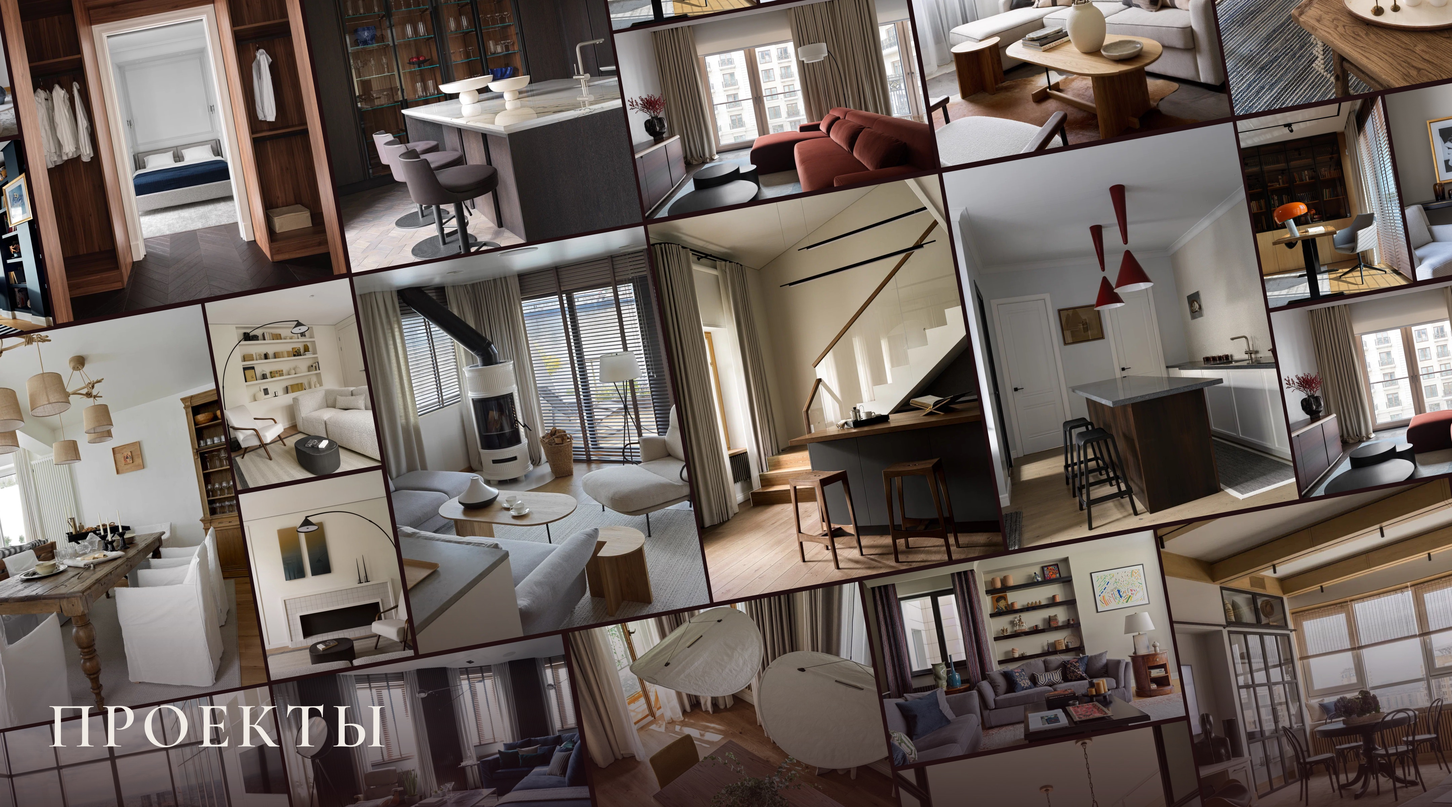
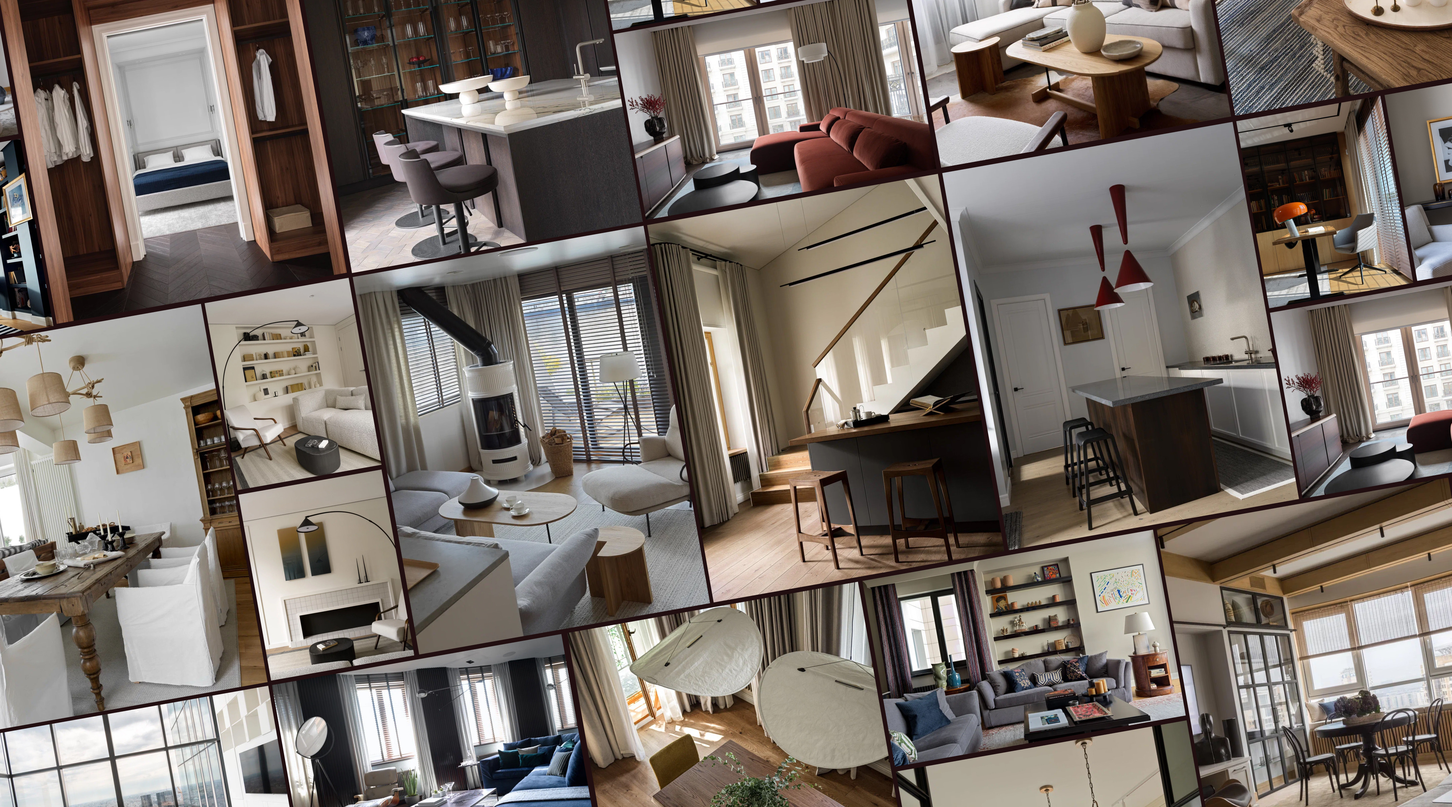
Restore missing Figma photos and project galleries now that Pro access works.
The first pass hit the free-plan export limit, so several heroes and the Moskva and Kotelniki galleries were incomplete or had titles baked into the JPEGs.

Changed region(s): [[0.0, 0.7188, 1.0, 1.0]]

diff --git a/projects/moskva.html b/projects/moskva.html
@@ -26,10 +26,10 @@
   </header>
 
   <section class="hero" data-hero>
-    <img src="../assets/projects/moskva.jpg" alt="Апартаменты в башне Москва" />
+    <img src="../assets/moskva/hero.jpg" alt="Апартаменты в башне Москва" width="4320" height="2400" />
     <div class="hero-copy">
       <h1>Апартаменты<br />в башне «Москва»</h1>
-      <p>Москва. Москва-Сити · Квартира · 220 м² · 2026</p>
+      <p>Москва-Сити · Квартира · 220 м² · 2026</p>
     </div>
   </section>
 
@@ -45,11 +45,44 @@
     <div></div>
   </section>
 
+  <div class="gallery-row gallery-row--3">
+    <img src="../assets/moskva/g1.jpg" alt="Гостиная в башне Москва" />
+    <img src="../assets/moskva/g2.jpg" alt="Столовая с видом на город" />
+    <img src="../assets/moskva/g3.jpg" alt="Кухня апартаментов" />
+  </div>
   <p class="gallery-copy">Задачу заказчик сформулировал так, что она сразу стала для нас ориентиром: «Хороший заводской автомобиль, например BMW, — он нравится многим и без индивидуального детейлинга». Поэтому в этих апартаментах нет резких, специфических высказываний и стилистических перегибов — ни в минимализм, ни в классику. Интерьер получился базовым: при желании владелец сможет «докрутить» его в современную или в классическую сторону. Единственное, что здесь не требовало улучшений, — панорамный вид: он был и остался прекрасным.</p>
-  <p class="gallery-copy">Планировка: точечные изменения вместо капитальных. Капитальную перепланировку не делали сознательно — важны были сроки. Полностью переделали ванные комнаты: двадцать лет назад их планировали по другим нормам, а раз всё равно предстоял полный демонтаж и замена сантехники, логично было привести их к сегодняшним стандартам. Душевое остекление — на скрытом зажимном профиле, в мастер-ванной — единая мокрая зона для душа и ванны, тёплые полы и стены.</p>
-  <p class="gallery-copy">Материалы и мебель: критерий — наличие. Главным условием попадания в сроки стала работа с тем, что есть в наличии: размещать заказы и ждать поставку четыре-пять месяцев мы не могли. Полностью заменили полы, керамогранит, двери, сантехнику и бытовую технику. Самое показательное решение здесь — кухня. Итальянский корпус был хорош, но лаковые фасады за двадцать лет аренды испортились необратимо, а перекраска и реставрация лака оказались бы недолговечными. Сделали новые фасады, сохранив корпус, — компромисс, который на деле оказался рациональнее «идеального» варианта с реставрацией.</p>
+  <div class="gallery-row gallery-row--full">
+    <img src="../assets/moskva/g4.jpg" alt="Открытое пространство гостиной" />
+  </div>
+  <div class="gallery-copy">
+    <p class="kicker-line">Планировка: точечные изменения вместо капитальных</p>
+    <p>Капитальную перепланировку не делали сознательно — важны были сроки. Полностью переделали ванные комнаты: двадцать лет назад их планировали по другим нормам, а раз всё равно предстоял полный демонтаж и замена сантехники, логично было привести их к сегодняшним стандартам. Душевое остекление — на скрытом зажимном профиле, в мастер-ванной — единая мокрая зона для душа и ванны, тёплые полы и стены.</p>
+  </div>
+  <div class="gallery-row gallery-row--3">
+    <img src="../assets/moskva/g5.jpg" alt="Ванная комната" />
+    <img src="../assets/moskva/g6.jpg" alt="Душевая зона" />
+    <img src="../assets/moskva/g7.jpg" alt="Деталь ванной" />
+  </div>
+  <div class="gallery-copy">
+    <p class="kicker-line">Материалы и мебель: критерий — наличие</p>
+    <p>Главным условием попадания в сроки стала работа с тем, что есть в наличии: размещать заказы и ждать поставку четыре-пять месяцев мы не могли. Полностью заменили полы, керамогранит, двери, сантехнику и бытовую технику. Самое показательное решение здесь — кухня. Итальянский корпус был хорош, но лаковые фасады за двадцать лет аренды испортились необратимо, а перекраска и реставрация лака оказались бы недолговечными. Сделали новые фасады, сохранив корпус, — компромисс, который на деле оказался рациональнее «идеального» варианта с реставрацией.</p>
+  </div>
+  <div class="gallery-row gallery-row--2">
+    <img src="../assets/moskva/g8.jpg" alt="Кухня с лайт-боксами" />
+    <img src="../assets/moskva/g9.jpg" alt="Кухонный фасад" />
+  </div>
   <p class="gallery-copy">Палитра — тёплые нейтральные тона: светлый дуб, бежевый текстиль, чёрные и металлические акценты в мебели. Такая гамма ничего не навязывает и оставляет свободу: к ней одинаково легко добавить и яркие этнические вещи, и сдержанные классические.</p>
-  <p class="gallery-copy">Инженерия и свет. Провели ревизию электрики, добавили управление шторами. Отдельный приём, который во многом задаёт настроение квартиры, — лайт-боксы слева и справа от кухни: они работают одновременно как атмосферное освещение и как арт-объект.</p>
+  <div class="gallery-row gallery-row--2r">
+    <img src="../assets/moskva/g10.jpg" alt="Прихожая" />
+    <img src="../assets/moskva/g11.jpg" alt="Столовая зона" />
+  </div>
+  <div class="gallery-copy">
+    <p class="kicker-line">Инженерия и свет</p>
+    <p>Провели ревизию электрики, добавили управление шторами. Отдельный приём, который во многом задаёт настроение квартиры, — лайт-боксы слева и справа от кухни: они работают одновременно как атмосферное освещение и как арт-объект.</p>
+  </div>
+  <div class="mosaic-frame">
+    <img src="../assets/moskva/mosaic.jpg" alt="Галерея проекта" />
+  </div>
 
   <nav class="pager">
     <a href="kotelniki.html">← Предыдущий проект</a>

diff --git a/projects/kotelniki.html b/projects/kotelniki.html
@@ -26,7 +26,7 @@
   </header>
 
   <section class="hero" data-hero>
-    <img src="../assets/projects/kotelniki.jpg" alt="Квартира на Котельнической набережной" />
+    <img src="../assets/kotelniki/hero.jpg" alt="Квартира на Котельнической набережной" width="4320" height="2400" />
     <div class="hero-copy">
       <h1>Котельническая<br />набережная</h1>
       <p>Москва · Квартира · 360 м² · 2024</p>
@@ -45,15 +45,42 @@
     <div></div>
   </section>
 
-  <div class="gallery-row gallery-row--2">
-    <img src="../assets/home/kotelniki.jpg" alt="Гостиная на Котельнической" />
-    <img src="../assets/projects/kotelniki.jpg" alt="Интерьер квартиры" />
+  <div class="gallery-row gallery-row--2r">
+    <img src="../assets/kotelniki/g1.jpg" alt="Гостиная на Котельнической" />
+    <img src="../assets/kotelniki/g2.jpg" alt="Гостиная с видом на реку" />
   </div>
   <p class="gallery-copy">Удачным решением стало объединить гостиную, столовую и кабинет в одно пространство, сохранив вид на три стороны света и на реку. Но были и сложности — например, не самые удачные пропорции окон, поэтому мы применили достаточно большой карниз, который перекрыл стену над оконным проёмом, а шторы, выпадающие из скрытых за карнизом ниш, визуально вытянули пропорции.</p>
+  <div class="gallery-row gallery-row--3">
+    <img src="../assets/kotelniki/g3.jpg" alt="Деталь гостиной" />
+    <img src="../assets/kotelniki/g4.jpg" alt="Колонна с градиентным стеклом" />
+    <img src="../assets/kotelniki/g5.jpg" alt="Столовая зона" />
+  </div>
   <p class="gallery-copy">Были и несущие колонны — демонтировать их нельзя. Но они стали, пожалуй, лучшим примером того, как современное интегрируется в классику: лепной декор соседствует с глянцевым градиентным стеклом — с растяжкой от бежевого к голубому, усиливающей впечатление от вида на реку из окна. Получилось лёгкое и уместное решение, которое точнее всего выражает микс этого проекта: колонна — базовый, традиционный архитектурный элемент — получает отделку в совершенно современном, почти арт-объекте.</p>
+  <div class="gallery-row gallery-row--2">
+    <img src="../assets/kotelniki/g6.jpg" alt="Классические детали интерьера" />
+    <img src="../assets/kotelniki/g7.jpg" alt="Наборный паркет" />
+  </div>
   <p class="gallery-copy">Материалы и отделка: роскошь без музейности. Скелет интерьера классический: лепной декор, форма плинтусов, рисунок наборного паркета, филёнчатые двери с профильными наличниками. В отделке — камень, паркет, мебель мировых брендов, кожа, лак, шёлк и шерсть. Свою задачу мы видели ещё и в том, чтобы вся эта роскошь не превратила пространство в музей, где боишься к чему-то прикоснуться. Удачная комбинация материалов, спокойные лаконичные цветовые решения и классические, но не дворцовые приёмы позволили создать интерьер добротный, но обжитой — по-настоящему жилой.</p>
+  <div class="gallery-row gallery-row--2">
+    <img src="../assets/kotelniki/g8.jpg" alt="Спальня" />
+    <img src="../assets/kotelniki/g9.jpg" alt="Мягкая зона в спальне" />
+  </div>
   <p class="gallery-copy">Большая площадь позволила разместить дополнительные удобства. При мастер-спальне нашлось место для kitchenette (мини-кухни без плиты) — удобного места для хранения напитков и чаепития в приватной части квартиры. В спальне есть мягкая зона с телевизором и второй вход в основную ванную комнату — через раздвижные двери гардеробной. Мастер-ванная — с окном, отдельно стоящей ванной, душевой зоной и вместительной тумбой с раковинами; она выстроена на одной оси с окном спальни через раздвижные двери проходной гардеробной — эта анфилада раскрывает простор и объём квартиры.</p>
+  <div class="gallery-row gallery-row--3">
+    <img src="../assets/kotelniki/g10.jpg" alt="Мастер-ванная" />
+    <img src="../assets/kotelniki/g11.jpg" alt="Ванна у окна" />
+    <img src="../assets/kotelniki/g12.jpg" alt="Душевая зона" />
+  </div>
   <p class="gallery-copy">Инженерные решения в интерьере. Традиционный интерьер не стал ограничением: все инженерные системы здесь современные, удачно интегрированы и не выставлены напоказ — система кондиционирования, приточно-вытяжная вентиляция, отопление, встроенное увлажнение воздуха, световые сценарии, управление шторами.</p>
+  <div class="gallery-row gallery-row--3">
+    <img src="../assets/kotelniki/g13.jpg" alt="Кухня" />
+    <img src="../assets/kotelniki/g14.jpg" alt="Кухонные фасады" />
+    <img src="../assets/kotelniki/g15.jpg" alt="Деталь кухни" />
+  </div>
+  <p class="gallery-copy">Этот проект — хороший пример решений, проверенных временем, но пережитых заново. Интерьер получился цельным и живым — именно таким и должен быть настоящий дом. Проект был опубликован в изданиях i2Dinspiration, Interior+Design (interior.ru), Love That Design, в книге World's Best III: 50 Interiors и в журнале Sector Luxe.</p>
+  <div class="mosaic-frame">
+    <img src="../assets/kotelniki/mosaic.jpg" alt="Галерея проекта" />
+  </div>
 
   <nav class="pager">
     <a href="krestovsky.html">← Предыдущий проект</a>

diff --git a/about.html b/about.html
@@ -26,7 +26,7 @@
   </header>
 
   <section class="hero" data-hero>
-    <img src="assets/heroes/about.jpg" alt="Офис бюро Special-Style" width="1920" height="1440" />
+    <img src="assets/heroes/about.jpg" alt="Работа над проектом в бюро Special-Style" width="2732" height="1518" />
     <div class="hero-copy">
       <h1>О бюро</h1>
     </div>
@@ -171,7 +171,7 @@
           <p>Список лучших бюро России по версии Architectural Digest</p>
         </div>
         <div class="award-row">
-          <p class="award-meta"><span>2017—2022</span><span>Награда</span></p>
+          <p class="award-meta"><span>2017 — 2022</span><span>Награда</span></p>
           <p>Best of Houzz Design</p>
         </div>
       </div>

diff --git a/css/styles.css b/css/styles.css
@@ -688,6 +688,10 @@ textarea {
   grid-template-columns: 862px 1fr;
 }
 
+.gallery-row--2r {
+  grid-template-columns: 412px 1fr;
+}
+
 .gallery-row--full {
   grid-template-columns: 1fr;
 }
@@ -703,6 +707,21 @@ textarea {
   max-width: 637px;
   margin: 0 auto;
   padding: 0 var(--pad-x) 96px;
+}
+
+.gallery-copy .kicker-line {
+  color: var(--olive);
+  margin: 0 0 1.1em;
+}
+
+.mosaic-frame {
+  padding: 0 var(--pad-x) 96px;
+}
+
+.mosaic-frame img {
+  width: 100%;
+  height: auto;
+  object-fit: contain;
 }
 
 .thumb-mosaic {
@@ -801,7 +820,8 @@ textarea {
   .detail-intro,
   .journal-media,
   .office-grid,
-  .gallery-row--2 {
+  .gallery-row--2,
+  .gallery-row--2r {
     grid-template-columns: 1fr;
   }
 

diff --git a/projects/krestovsky.html b/projects/krestovsky.html
@@ -26,7 +26,7 @@
   </header>
 
   <section class="hero" data-hero>
-    <img src="../assets/krestovsky/hero.jpg" alt="Квартира на Крестовском острове" />
+    <img src="../assets/krestovsky/hero.jpg" alt="Квартира на Крестовском острове" width="4320" height="2400" />
     <div class="hero-copy">
       <h1>Квартира<br />на Крестовском острове</h1>
       <p>Санкт-Петербург · Квартира · 126 м² · 2024</p>

diff --git a/projects/dom-na-oke.html b/projects/dom-na-oke.html
@@ -26,7 +26,7 @@
   </header>
 
   <section class="hero" data-hero>
-    <img src="../assets/oke/hero.jpg" alt="Дом на Оке" width="1440" height="800" />
+    <img src="../assets/oke/hero.jpg" alt="Дом на Оке" width="4320" height="2400" />
     <div class="hero-copy">
       <h1>Дом на Оке</h1>
       <p>Калужская область · Частный дом · 220 м² · 2021</p>

diff --git a/journal.html b/journal.html
@@ -26,7 +26,7 @@
   </header>
 
   <section class="hero" data-hero>
-    <img src="assets/heroes/journal.jpg" alt="Публикации бюро в журналах" width="4320" height="2400" />
+    <img src="assets/heroes/journal.jpg" alt="Публикации бюро в журналах" width="4284" height="2380" />
     <div class="hero-copy">
       <h1>Журнал событий</h1>
     </div>
